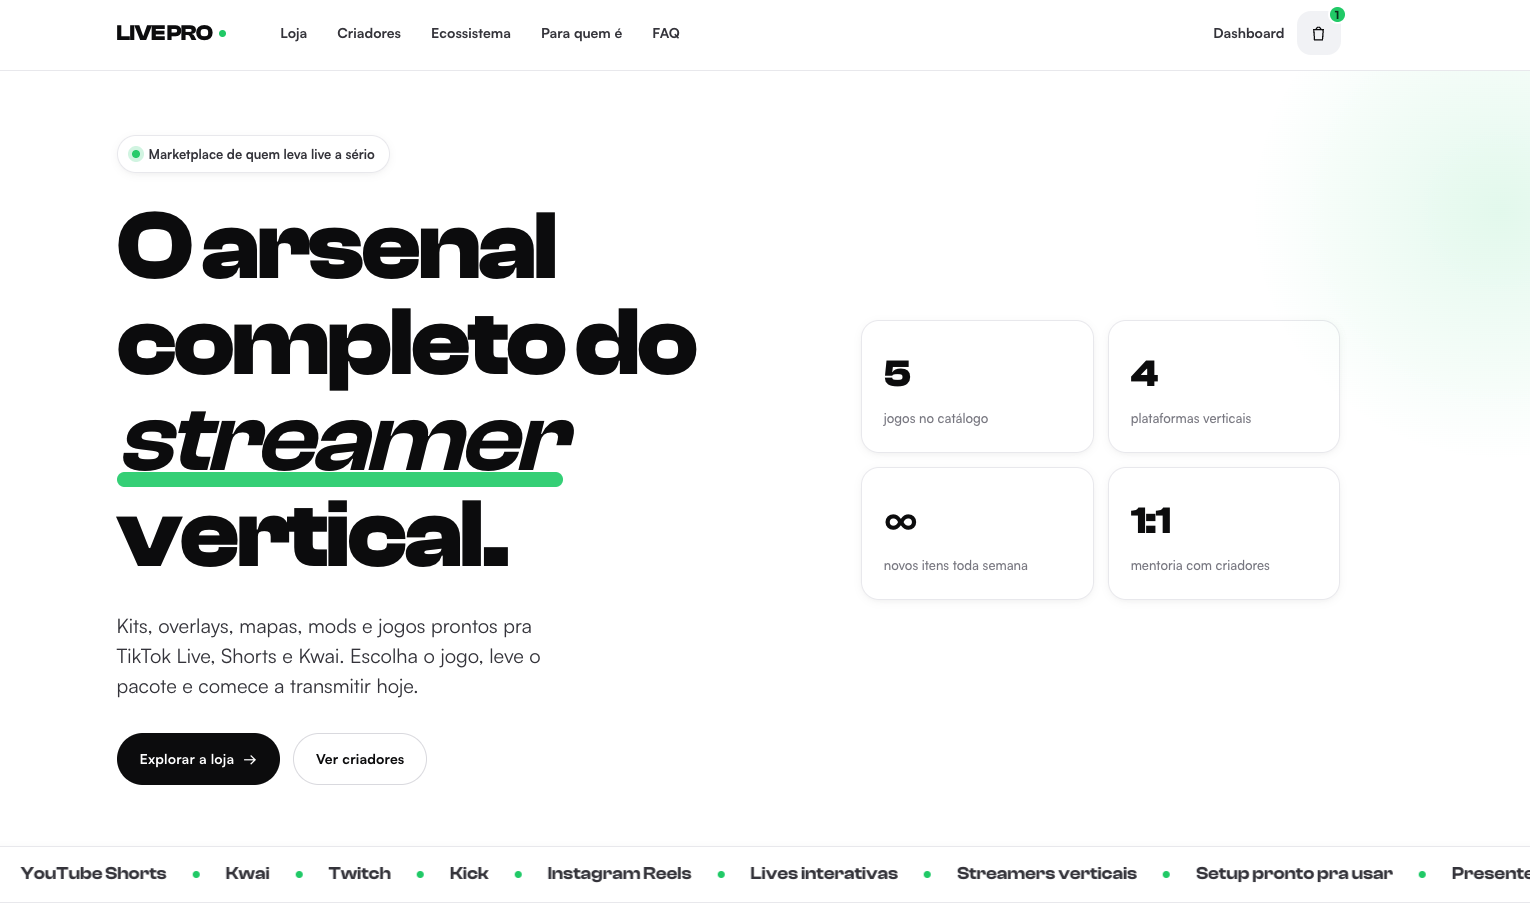
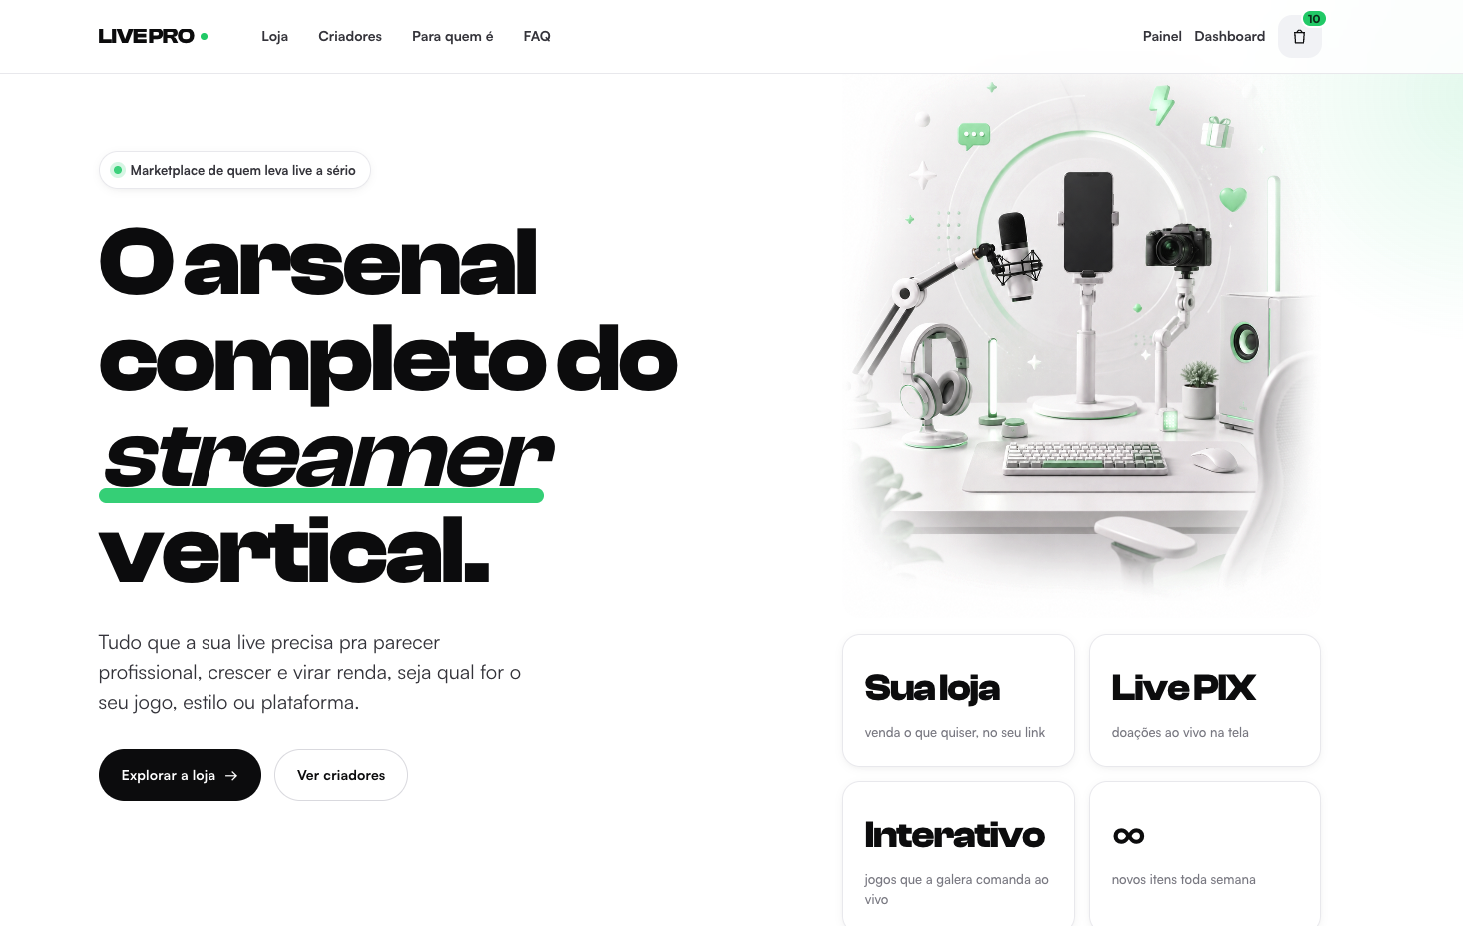
updated

diff --git a/index.html b/index.html
@@ -364,7 +364,7 @@
                         <div class="project-body">
                             <div class="project-top">
                                 <h3>S4VCRAFT</h3>
-                                <a class="project-state" href="https://youtu.be/qVnrOob_oVc" target="_blank" rel="noopener">Ver demo
+                                <a class="project-state" href="#" target="_blank" rel="noopener">Ver demo
                                     <svg width="12" height="12" viewBox="0 0 24 24" fill="none" stroke="currentColor" stroke-width="2.4" stroke-linecap="round" stroke-linejoin="round"><line x1="7" y1="17" x2="17" y2="7"/><polyline points="7 7 17 7 17 17"/></svg>
                                 </a>
                             </div>
